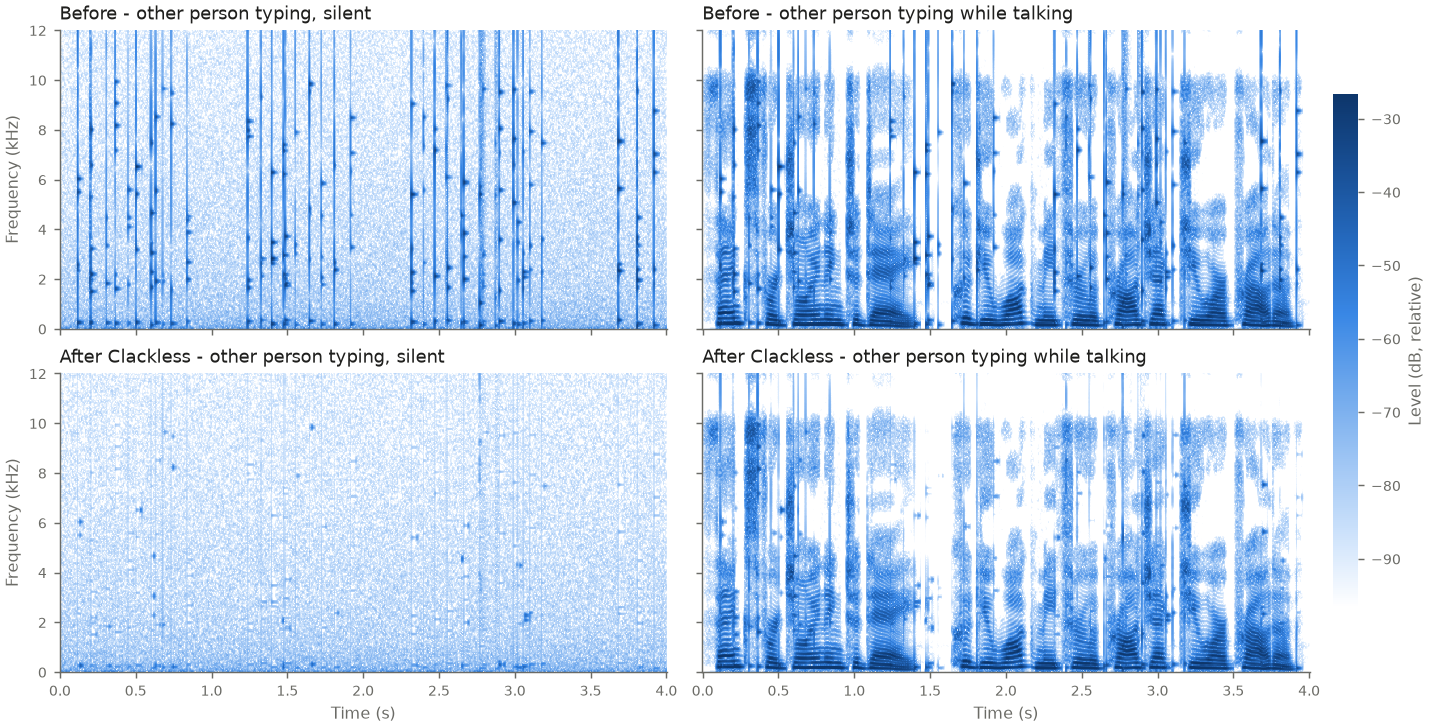
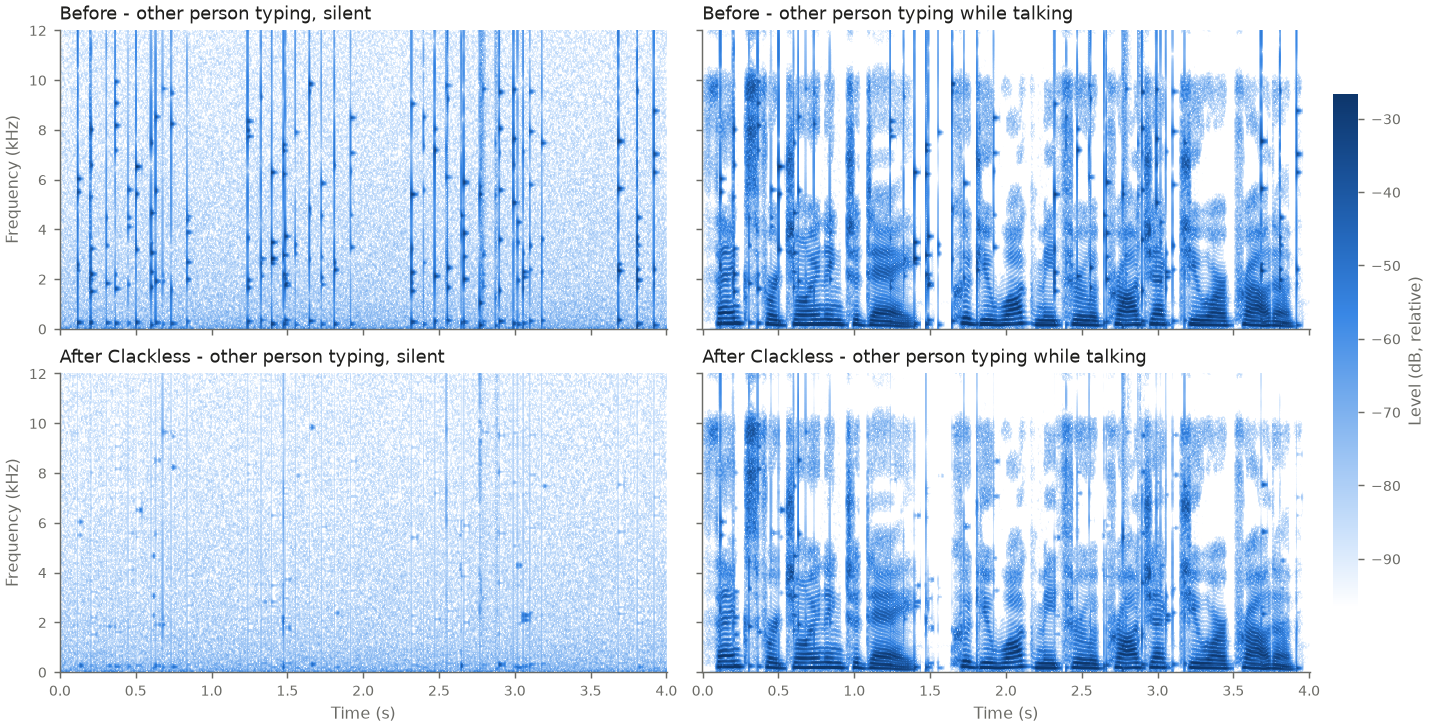
Protect low and buzzy voices; require Python 3.10
The first CI run tested two new real voices (Windows SAPI, espeak-ng) and
both failed the speech-fidelity checks (14-19 dB SI-SDR): with 10 ms
frames, each glottal pulse of a low, buzzy voice looked like a small click.

- Use 16 ms frames at every sample rate (exact length, not a power of
  two): espeak-ng 14 -> 21-23 dB, 80 Hz voice 18 -> 24+ dB; latency 36 ms
- Tighten the clamp tolerance (+1.6 dB) to keep typing removal >= 18 dB(A)
- Test deep voices (80 Hz >= 20 dB) and vocal fry (65 Hz >= 15 dB)
- Python 3.9 is end-of-life and absent from Ubuntu 26.04 runners
- Update documented measurements and the spectrogram

diff --git a/src/clackless/dsp.py b/src/clackless/dsp.py
@@ -2,7 +2,7 @@
 
 How it works (docs/HOW_IT_WORKS.md has the long version with the reasoning)
 ---------------------------------------------------------------------------
-Audio is analysed with a short-time Fourier transform (~10 ms frames, 75 %
+Audio is analysed with a short-time Fourier transform (16 ms frames, 75 %
 overlap) and a ~20 ms look-ahead. For every frame we estimate what the signal
 would look like *without* a keystroke, from:
 
@@ -64,8 +64,8 @@ class Settings:
     bypass: bool = False
     """Pass audio through untouched (still delayed by the same latency)."""
 
-    frame_ms: float = 10.0
-    """STFT frame length; rounded up to a power of two in samples."""
+    frame_ms: float = 16.0
+    """STFT frame length. 16 ms averages over >= 1 glottal pulse of a deep voice."""
 
     lookahead_ms: float = 20.0
     """How far ahead the detector looks. Adds directly to latency."""
@@ -117,14 +117,10 @@ _PITCH_PERIOD_MS = 14.0  # longest glottal period we protect (deep voices / voca
 _CLICK_TAIL_MS = 20.0  # a click's own tail: clamped hard; later in an event, sustained sound is protected
 _MAX_BURST_MS = 50.0  # continuous "excess" longer than this is speech/noise, not a keystroke
 _SMOOTH_HZ = 400.0  # frequency smoothing for the decay test
-_TOLERANCE = 1.4  # +3 dB headroom above the reference so natural fluctuation is kept
+_TOLERANCE = 1.2  # +1.6 dB headroom above the reference so natural fluctuation is kept
 _NOISE_BIAS = 2.5  # minimum-statistics bias compensation
 _NOISE_FLOOR_DB = -18.0  # Wiener gain floor at noise_reduction == 1
 _SILENCE_FLOOR = 1e-4  # ~ -80 dBFS: below this nothing counts as "louder"
-
-
-def _next_pow2(n: int) -> int:
-    return 1 << max(4, int(np.ceil(np.log2(max(n, 1)))))
 
 
 class Suppressor:
@@ -137,7 +133,9 @@ class Suppressor:
         self.settings = (settings or Settings()).validate()
         s = self.settings
 
-        self.n_fft = _next_pow2(int(round(sample_rate * s.frame_ms / 1000.0)))
+        # Exact frame length (a multiple of 4 for the 75 % overlap), not a power
+        # of two: the time resolution must be the same at every sample rate.
+        self.n_fft = max(16, 4 * int(round(sample_rate * s.frame_ms / 1000.0 / 4)))
         self.hop = self.n_fft // 4
         self.n_bins = self.n_fft // 2 + 1
         frame_rate = sample_rate / self.hop

diff --git a/tests/test_effectiveness.py b/tests/test_effectiveness.py
@@ -91,14 +91,15 @@ def test_stationary_noise_reduction(color, tts_speech):
     assert metrics.si_sdr(out, voice) > metrics.si_sdr(mix, voice) + 1.0
 
 
-@pytest.mark.parametrize("sr", [16000, 48000])
+@pytest.mark.parametrize("sr", [16000, 44100, 48000])
 @pytest.mark.parametrize("seed", [1, 2, 3])
-def test_deep_voice_is_preserved(sr, seed):
-    """Low voices (~80 Hz) are the hardest case: each glottal pulse looks a bit
-    like a click. They must still pass with little damage."""
-    voice = synth.speech(sr, DUR, seed=seed, f0=80)
+@pytest.mark.parametrize("f0,floor", [(80, 20.0), (65, 15.0)])
+def test_deep_voice_is_preserved(sr, seed, f0, floor):
+    """Low voices are the hardest case: each glottal pulse looks a bit like a
+    click. Deep voices (80 Hz) must pass cleanly, vocal fry (65 Hz) nearly so."""
+    voice = synth.speech(sr, DUR, seed=seed, f0=f0)
     _, (out,) = shadow_process(voice, [voice], sr)
-    assert metrics.si_sdr(out, voice) >= 15.0
+    assert metrics.si_sdr(out, voice) >= floor
 
 
 def test_noise_reduction_off_by_default_leaves_room_tone():

diff --git a/docs/HOW_IT_WORKS.md b/docs/HOW_IT_WORKS.md
@@ -23,7 +23,7 @@ Neural denoisers (RNNoise, DeepFilterNet, NVIDIA Broadcast, Krisp) are good,
 but they need model files, sometimes a GPU, and they are trained mainly for
 *stationary* noise. A keystroke has a very specific, physical signature that
 can be detected directly, which keeps Clackless small (NumPy + SciPy), fast
-(about 3 % of one CPU core), explainable, and testable.
+(about 2 % of one CPU core), explainable, and testable.
 
 ## What a keystroke looks like
 
@@ -39,8 +39,11 @@ milliseconds, and voiced speech is *periodic* (a glottal pulse every 2.5–14 ms
 
 ## The algorithm (`src/clackless/dsp.py`)
 
-Audio is analysed with an STFT (~10 ms frames, 75 % overlap) and a 20 ms
-look-ahead. Total added latency is 32–36 ms.
+Audio is analysed with an STFT (16 ms frames, 75 % overlap) and a 20 ms
+look-ahead. Total added latency is 36 ms. The frame length is the same at
+every sample rate: 16 ms averages over at least one glottal pulse of a deep
+voice, so the pulses do not look like individual clicks (with 10 ms frames, a
+buzzy low voice lost up to 9 dB of fidelity).
 
 1. **Reference "what would be here without a click".** Per frequency bin:
    the median of the last 120 ms of *already cleaned* frames (so earlier
@@ -69,7 +72,7 @@ look-ahead. Total added latency is 32–36 ms.
    * *Burst cap*: anything that sticks out continuously for > 50 ms is not a
      keystroke; the detector stands down until the signal settles.
 5. **Suppression.** During an event each bin is clamped to the spectrum
-   captured just before it started (+3 dB tolerance). Speech harmonics that
+   captured just before it started (+1.6 dB tolerance). Speech harmonics that
    were already there survive; only click energy above them is removed. The
    event is held 25 ms for the click's tail. After its first 20 ms, only bins
    that *stay* faded are clamped, which protects a voice that begins right after
@@ -99,10 +102,12 @@ was damaged" are measured independently.
 * `scripts/evaluate.py` runs the grid (3 sample rates × 3 seeds) and is the
   tool to use before and after any DSP change.
 
-Several design decisions above came straight out of that grid. For example,
-the pitch masking and the live re-triggering were added after the grid showed
-a low-pitched voice losing whole vowel endings. The 8–12 kHz band was added
-after a spectrogram showed clicks surviving under speech.
+Several design decisions above came straight out of that grid and CI. For
+example, the pitch masking and the live re-triggering were added after the grid
+showed a low-pitched voice losing whole vowel endings. The 8–12 kHz band was
+added after a spectrogram showed clicks surviving under speech. The 16 ms frame
+length came from the first CI run: the Windows and espeak-ng voices (lower and
+buzzier than the macOS one) failed the speech-fidelity checks with 10 ms frames.
 
 ## Known limitations
 
@@ -110,8 +115,8 @@ after a spectrogram showed clicks surviving under speech.
   scissor keys, mechanical switches, thocky keyboards). Use
   `clackless record` + `clackless selftest --typing` to measure yours, and
   please share results in an issue.
-* Typing *while the typist talks* is only reduced (≈ 7–14 dB(A)), not removed:
+* Typing *while the typist talks* is only reduced (≈ 7–13 dB(A)), not removed:
   where the voice is louder than the click, the click is left alone on purpose.
-* Very deep voices and vocal fry are the hardest case for false detections
-  (≥ 15 dB SI-SDR, versus ≥ 20 dB for typical voices).
+* Vocal fry (~65 Hz) is the hardest case for false detections (≥ 15 dB SI-SDR;
+  deep 80 Hz voices and typical voices ≥ 20 dB).
 * 8 kHz telephone-band audio has fewer cues (≈ 15 dB(A) removal).

diff --git a/README.md b/README.md
@@ -4,7 +4,7 @@
 
 Clackless sits between your meeting app (Teams, Zoom, Google Meet, Slack, Discord, …) and your
 speakers or microphone, and removes keystroke sounds in real time. It runs locally on
-Windows, macOS and Linux, adds about 32 ms of delay, uses about 3 % of one CPU core, and needs no GPU,
+Windows, macOS and Linux, adds about 36 ms of delay, uses about 2 % of one CPU core, and needs no GPU,
 no account and no internet connection.
 
 ![Spectrograms before and after Clackless](docs/spectrogram.png)
@@ -27,7 +27,7 @@ through. Clackless targets the keystrokes specifically.
 
 ## Quick start
 
-**1. Install** (Python 3.9+):
+**1. Install** (Python 3.10+):
 
 ```bash
 pipx install git+https://github.com/sepehrvahedi/clackless
@@ -79,16 +79,16 @@ The ranges cover 3 sample rates (16, 44.1, 48 kHz) × 3 different typists/voices
 
 | Scenario | Result | Acceptance threshold |
 |---|---|---|
-| Typing while the typist is silent (main case) | **19–25 dB(A) quieter** (mean 22.5) | ≥ 18 per case |
-| Room tone while typing | changed by < 1 dB | ≤ 2 dB |
-| Speech with no typing (synthetic and real TTS voice) | 23–40 dB SI-SDR (essentially untouched) | ≥ 20 |
-| Very deep voice (80 Hz) with no typing | 17–33 dB SI-SDR (mean 24) | ≥ 15 |
-| Typing while talking | 7–14 dB(A) quieter | ≥ 5 |
-| Speech while typing | 24–37 dB SI-SDR | ≥ 18 |
-| Added latency | 32–36 ms | ≤ 40 |
-| CPU | 1–3 % of real time | ≤ 25 % |
+| Typing while the typist is silent (main case) | **18.5–22.6 dB(A) quieter** (mean 20.9) | ≥ 18 per case |
+| Room tone while typing | changed by ≈ 1 dB or less | ≤ 2 dB |
+| Speech with no typing (synthetic voice, macOS and espeak-ng TTS voices) | 21–40 dB SI-SDR (essentially untouched) | ≥ 20 |
+| Deep voice (80 Hz) / vocal fry (65 Hz), no typing | 24–38 / 18.6–23.5 dB SI-SDR | ≥ 20 / ≥ 15 |
+| Typing while talking | 7–13 dB(A) quieter | ≥ 5 |
+| Speech while typing | 24–36 dB SI-SDR | ≥ 18 |
+| Added latency | 36 ms | ≤ 40 |
+| CPU | 1–2 % of real time | ≤ 25 % |
 
-20 dB(A) means the clicks sound roughly a quarter as loud (perceived loudness halves every
+About 20 dB(A) means the clicks sound roughly a quarter as loud (perceived loudness halves every
 ~10 dB) and carry 1/100 of the energy. Details of the method and evaluation:
 [docs/HOW_IT_WORKS.md](docs/HOW_IT_WORKS.md). Product requirements:
 [docs/REQUIREMENTS.md](docs/REQUIREMENTS.md).
@@ -133,14 +133,14 @@ modes writes nothing to disk.
   `clackless record` / `selftest --typing` and share results.
 * **Typing while talking is reduced, not removed.** Where the voice is louder than a click,
   the click is left alone on purpose, so the voice is never damaged.
-* **Very deep voices / vocal fry** are the hardest case for false detections. They are still
-  protected (≥ 15 dB SI-SDR), with a smaller margin than typical voices.
+* **Vocal fry** (very low, creaky voice, ~65 Hz) is the hardest case for false detections. It
+  is still protected (≥ 15 dB SI-SDR), with a smaller margin than typical voices.
 * **You need a virtual audio cable** on macOS and Windows (free, one-time install). Use
   separate cables for `listen` and `mic` if you run both.
 * **Linux live routing** relies on PortAudio's ALSA `pulse` device (pipewire-alsa or the
   PulseAudio ALSA plugin). It is covered by unit tests, but has had less real-world use than
   macOS and Windows so far.
-* Bluetooth headsets add their own latency; Clackless's 32 ms comes on top of that.
+* Bluetooth headsets add their own latency; Clackless's 36 ms comes on top of that.
 
 ## Development
 

diff --git a/docs/REQUIREMENTS.md b/docs/REQUIREMENTS.md
@@ -39,7 +39,7 @@ interviewer writing feedback) your microphone sends the clicks to everyone else.
 
 | ID | Category | Requirement | How it is verified |
 |----|----------|-------------|--------------------|
-| NFR-1 | Portability | Runs on Windows, macOS and Linux (x86-64 and ARM64) with Python ≥ 3.9; pure Python + NumPy/SciPy + PortAudio (no compiler, no GPU). | CI matrix on `windows-latest`, `macos-latest`, `ubuntu-latest`. |
+| NFR-1 | Portability | Runs on Windows, macOS and Linux (x86-64 and ARM64) with Python ≥ 3.10; pure Python + NumPy/SciPy + PortAudio (no compiler, no GPU). | CI matrix on `windows-latest`, `macos-latest`, `ubuntu-latest`. |
 | NFR-2 | Latency | Added algorithmic latency ≤ 40 ms at 48 kHz (meetings already have 100–300 ms; > ~50 ms extra starts to be noticeable in conversation). | `test_latency_bound` asserts the reported latency; identity test checks the actual delay matches. |
 | NFR-3 | Performance | Real-time factor ≤ 0.25 on a CI runner (≤ 5 % of one core on a laptop) so it can run alongside the meeting app. | `test_realtime_factor`. |
 | NFR-4 | Effectiveness | Typing while the typist is silent: keystroke loudness reduced by ≥ 18 dB(A) in every tested condition (≥ 20 dB(A) on average); typing while talking: ≥ 5 dB(A); room tone changed by ≤ 2 dB. | `tests/test_effectiveness.py`, `clackless selftest`, `scripts/evaluate.py` (3 sample rates × 3 seeds, synthetic and real TTS voices). |
